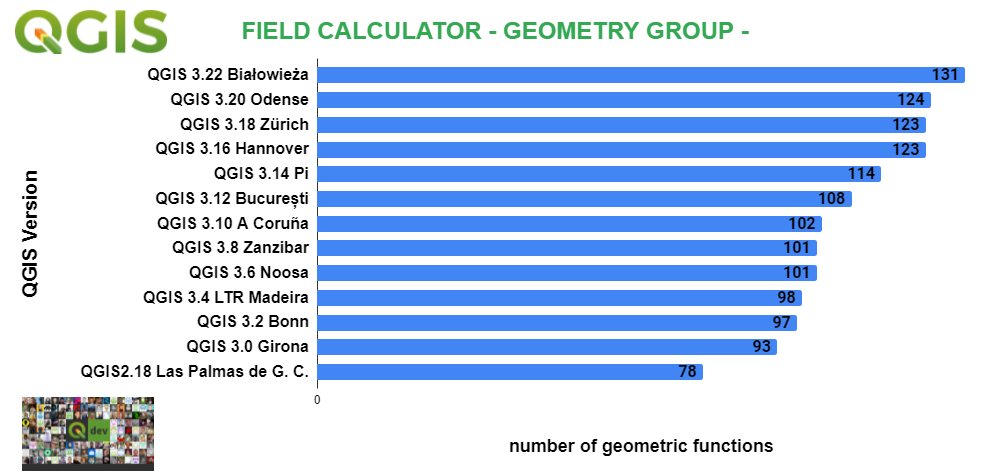
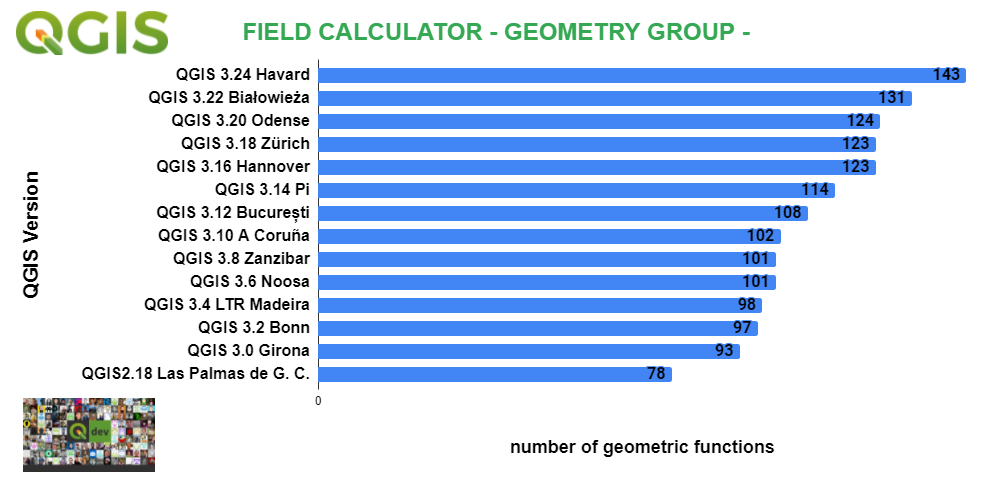
add novità 3.24

diff --git a/docs/release/intro_novita.md b/docs/release/intro_novita.md
@@ -9,6 +9,7 @@
 
 Release        | Data | changelog | nuove funzioni
 ---------------|------|-----------|---------------
+[QGIS 3.24 Havard](novita_324.md)  |18/02/2022 | <a href="https://changelog.qgis.org/en/qgis/version/3.24/" target="_blank"><img src="../../img/splashscreen/splash_3_24.png" alt="QGIS.org"  width="200" class="immagonobox" title="Changelog 3.24"></a> | scale, triangular/square/curved, overlay_nearest, apply_dash_pattern, force_polygon_cw/ccw, densify_by_count/distance, roundness, overlay_intersects, overlay_intersects, overlay_intersects, geometry_n, geometry_type, get_feature, represent_attributes, array_remove_at, map_prefix_keys, url_encode
 [QGIS 3.22 Białowieża](novita_322.md)  |22/10/2021 | <a href="https://changelog.qgis.org/en/qgis/version/3.22/" target="_blank"><img src="../../img/splashscreen/splash_3_22.png" alt="QGIS.org"  width="200" class="immagonobox" title="Changelog 3.22"></a> | exif, exif_geotag, sinuosity, $z, affine_transform, straight_distance_2d, vertex_as_point, vertex_z
 [QGIS 3.20 Odense](novita_320.md)  |21/06/2021 | <a href="https://www.qgis.org/it/site/forusers/visualchangelog320/index.html" target="_blank"><img src="../../img/splashscreen/splash_3_20.png" alt="QGIS.org"  width="200" class="immagonobox" title="Changelog 3.20"></a> | length3D, array_count, array_priorize, array_replace, mime_type
 [QGIS 3.18 Zürich](novita_318.md)  |22/02/2021 | <a href="https://www.qgis.org/it/site/forusers/visualchangelog318/index.html" target="_blank"><img src="../../img/splashscreen/splash_3_18.png" alt="QGIS.org"  width="200" class="immagonobox" title="Changelog 3.18"></a> | UUID, array_get, array_min, arra_max, array_majority, array_sum, array_mean, array_median, map_credits, @layer_crs

diff --git a/docs/release/novita_324.md b/docs/release/novita_324.md
@@ -1,4 +1,4 @@
-# Novità rilevanti introdotte in QGIS 3.24 IN LAVORAZIONE!!!
+# Novità rilevanti introdotte in QGIS 3.24 Havard IN LAVORAZIONE!!!
 
 [![](../img/splashscreen/splash_3_24.png)](../img/splashscreen/splash_3_24.png)
 
